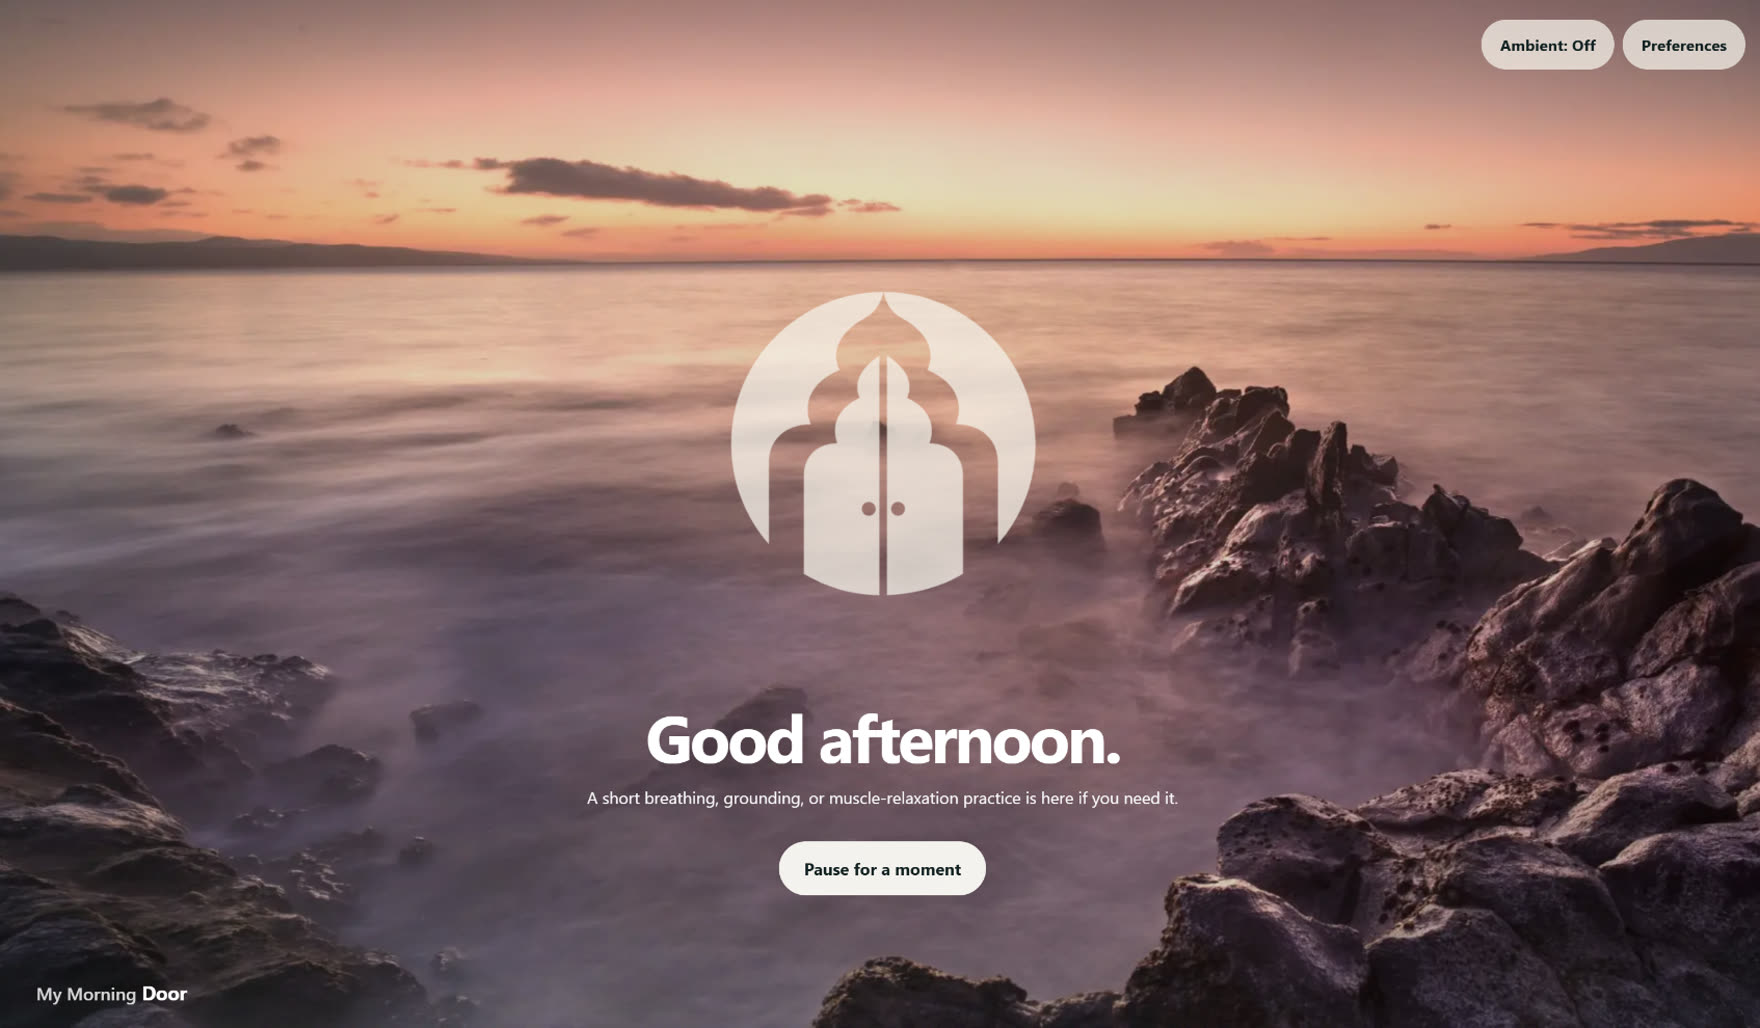
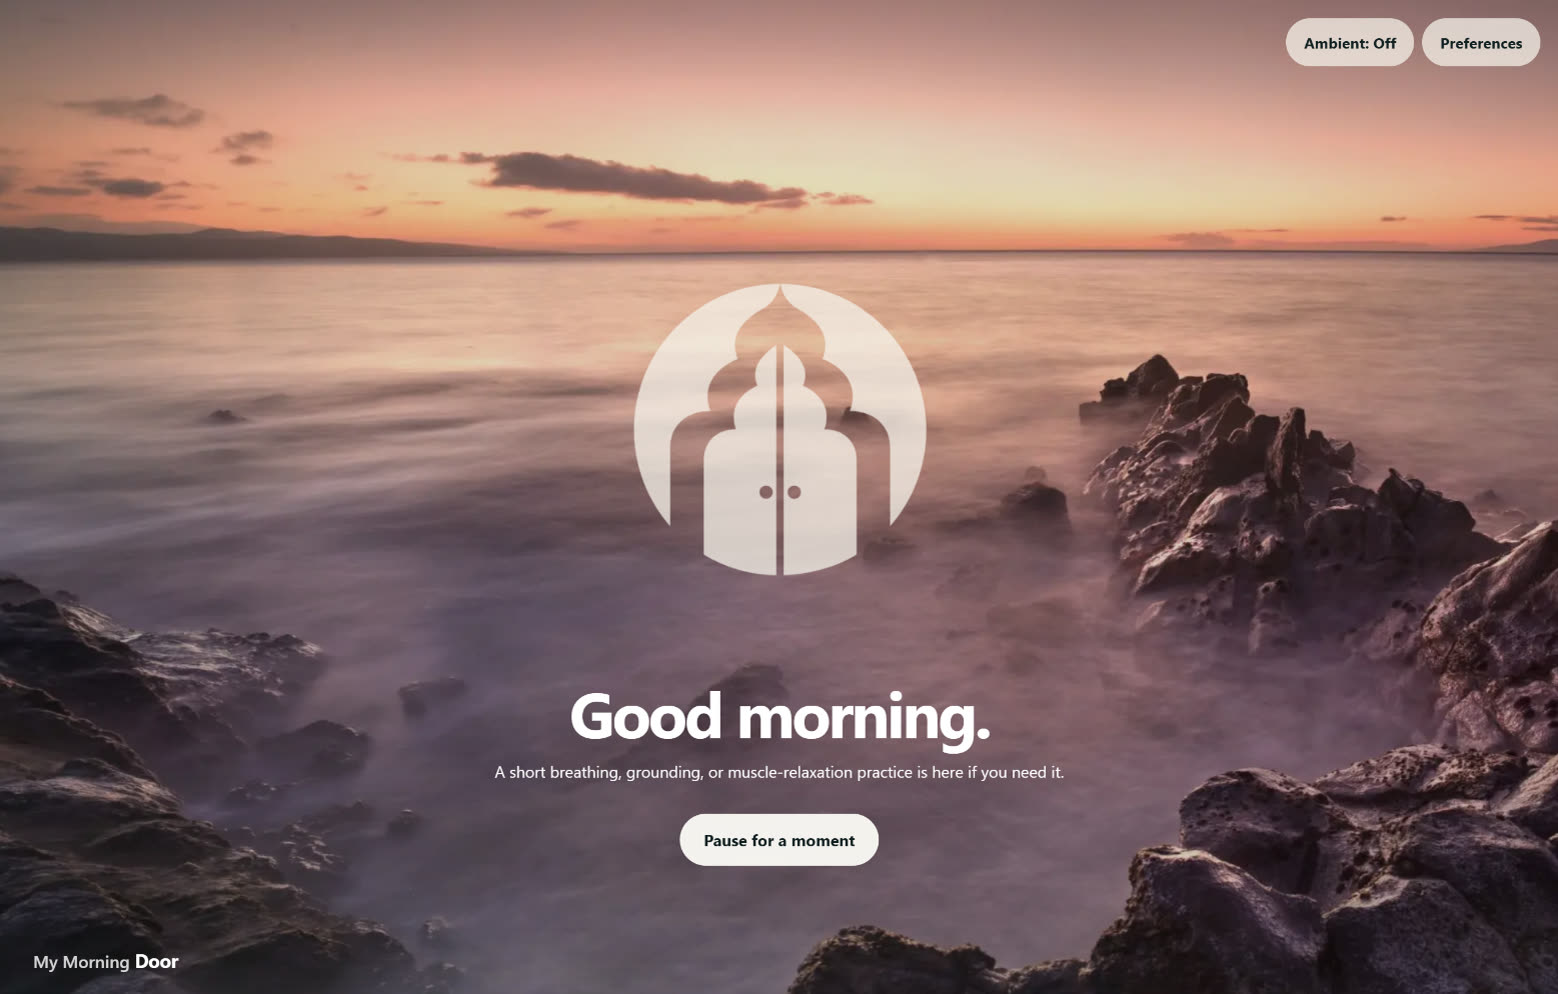
Use the Good morning cut for the hero and a matching arrival
Swap the case study hero to the sunset resting capture greeting Good
morning (fitting for My Morning Door), and the arrival to a matching
taller cut. Both are 1558x994; alt text and dimensions updated. The
taller arrival also sits nearly edge to edge in the homepage card.

diff --git a/case-study-my-morning-door.html b/case-study-my-morning-door.html
@@ -843,7 +843,7 @@ body::after {
 </div>
 
 <figure class="lead-shot hero-wrap">
-  <img src="mmd-resting.jpg" alt="My Morning Door open in a new tab: the breathing mark over a rocky shoreline at sunset, the greeting 'Good afternoon.' and a single 'Pause for a moment' button" width="1760" height="1028" fetchpriority="high">
+  <img src="mmd-resting.jpg" alt="My Morning Door open in a new tab: the breathing mark over a rocky shoreline at sunset, the greeting 'Good morning.' and a single 'Pause for a moment' button" width="1558" height="994" fetchpriority="high">
   <figcaption>Fig. 01: What a new tab looks like once the extension is running.</figcaption>
 </figure>
 
@@ -1060,7 +1060,7 @@ body::after {
   <div class="wide screen-block">
     <div class="screen-row">
       <figure class="figure is-natural">
-        <img src="mmd-arrival.jpg" alt="My Morning Door arrival screen: a frosted-glass panel headed 'Choose your pause' over a rocky shoreline at sunset, offering Breathing, Sensory Grounding and Seated Muscle Release, with a 'Continue without a practice' link" width="1760" height="1028" loading="lazy">
+        <img src="mmd-arrival.jpg" alt="My Morning Door arrival screen: a frosted-glass panel headed 'Choose your pause' over a rocky shoreline at sunset, offering Breathing, Sensory Grounding and Seated Muscle Release, with a 'Continue without a practice' link" width="1558" height="994" loading="lazy">
         <figcaption>Fig. 03: The arrival ritual</figcaption>
       </figure>
       <div class="caption">
